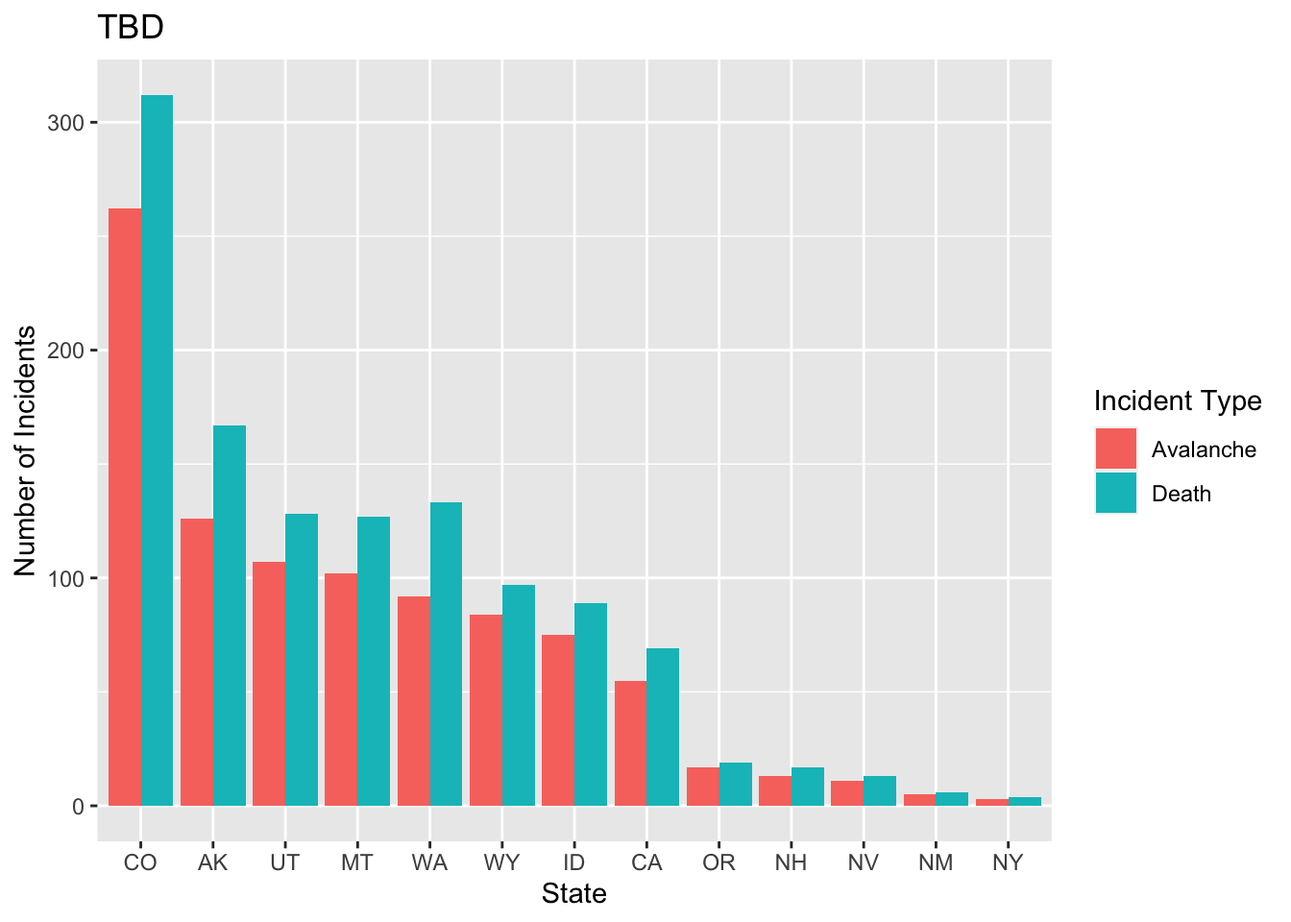
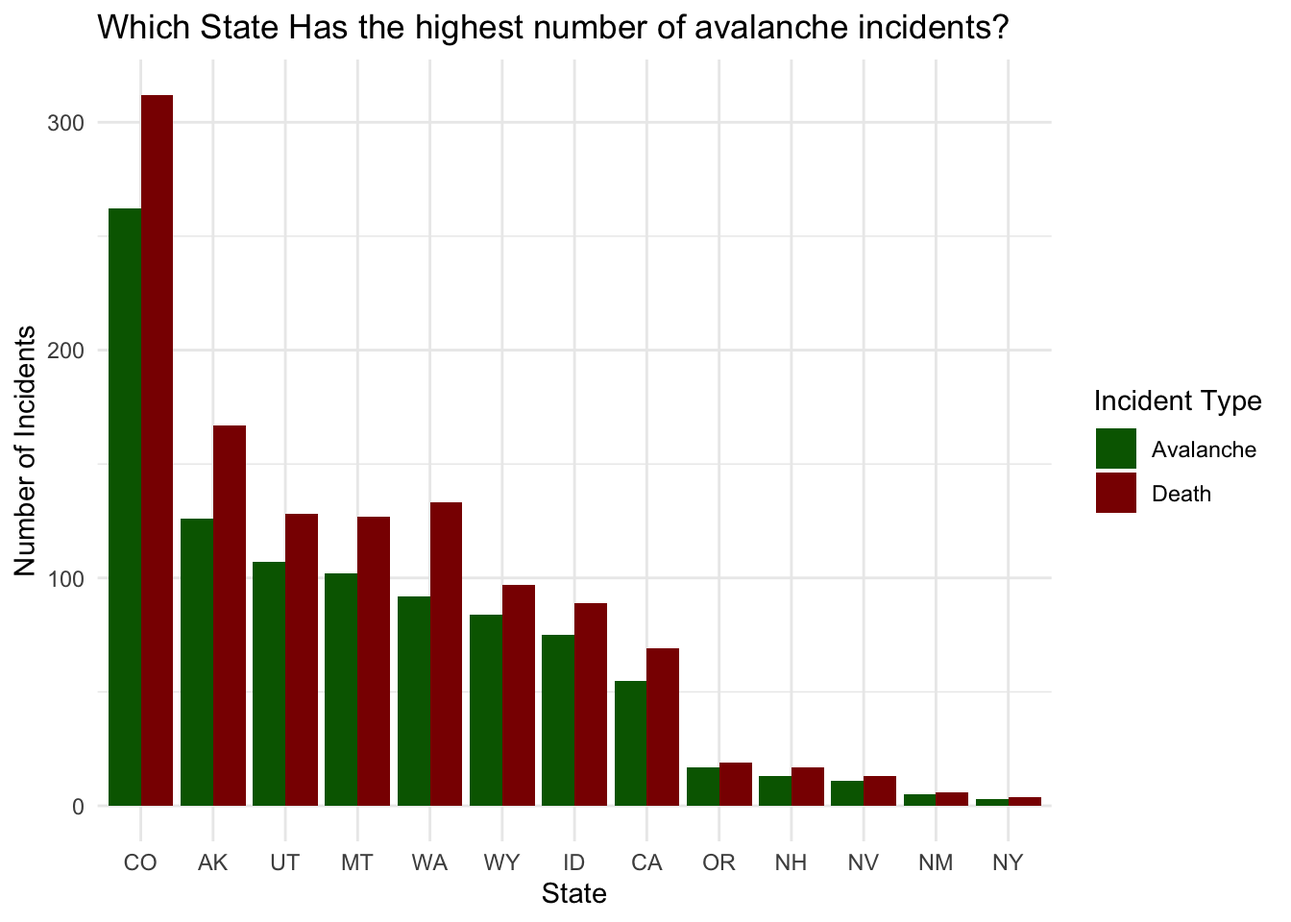
Finishing touches on avalanche data set

diff --git a/docs/posts/AvalanceAnalysis/index.html b/docs/posts/AvalanceAnalysis/index.html
@@ -165,14 +165,12 @@ code span.wa { color: #60a0b0; font-weight: bold; font-style: italic; } /* Warni
     <h2 id="toc-title">On this page</h2>
    
   <ul>
-  <li><a href="#avalanche-incidents-and-fatality-analysis" id="toc-avalanche-incidents-and-fatality-analysis" class="nav-link active" data-scroll-target="#avalanche-incidents-and-fatality-analysis">Avalanche Incidents and Fatality Analysis</a>
-  <ul class="collapse">
-  <li><a href="#background" id="toc-background" class="nav-link" data-scroll-target="#background">Background</a>
+  <li><a href="#background" id="toc-background" class="nav-link active" data-scroll-target="#background">Background</a></li>
+  <li><a href="#the-data" id="toc-the-data" class="nav-link" data-scroll-target="#the-data">The Data</a>
   <ul class="collapse">
   <li><a href="#have-avalanche-incidents-and-fatalities-increased-over-the-years" id="toc-have-avalanche-incidents-and-fatalities-increased-over-the-years" class="nav-link" data-scroll-target="#have-avalanche-incidents-and-fatalities-increased-over-the-years">Have Avalanche Incidents and Fatalities increased over the years?</a></li>
   <li><a href="#does-mode-of-transportation-impact-the-number-of-accidents" id="toc-does-mode-of-transportation-impact-the-number-of-accidents" class="nav-link" data-scroll-target="#does-mode-of-transportation-impact-the-number-of-accidents">Does mode of transportation impact the number of accidents?</a></li>
   <li><a href="#which-states-have-highest-consentration-of-avalanche-accidents" id="toc-which-states-have-highest-consentration-of-avalanche-accidents" class="nav-link" data-scroll-target="#which-states-have-highest-consentration-of-avalanche-accidents">Which States have highest consentration of Avalanche Accidents?</a></li>
-  </ul></li>
   </ul></li>
   </ul>
 </nav>
@@ -202,29 +200,49 @@ code span.wa { color: #60a0b0; font-weight: bold; font-style: italic; } /* Warni
 </header>
 
 <p>Analysis of Avalanche Incidents and Fatalities in the United States from 1950 to 2022.</p>
-<p>Data is available thanks to Colorado Avalanche Information Center (CAIC)</p>
+<p>Data is available thanks to Colorado Avalanche Information Center <a href="https://avalanche.state.co.us/accidents/statistics-and-reporting" target="_blank">(CAIC)</a></p>
 <p>image credit: Matea Nikolina via Unsplash</p>
-<section id="avalanche-incidents-and-fatality-analysis" class="level1">
-<h1>Avalanche Incidents and Fatality Analysis</h1>
 <section id="background" class="level2">
 <h2 class="anchored" data-anchor-id="background">Background</h2>
-<p>Data from CAIC 2022 1. Describe what is being shown 2. Describe variables being used 3. Describe interest in the analysis</p>
+<p>I have been skiing for a very long time. As a child my father would put on ski movies after a long day on the slopes, most of the movies we would watch would have at least one scene of a professional skier or snowboarder riding down a slope as an avalanche is triggered. Much like quicksand I thought avalanches would be a very big worry as a grew older, but when one skis at a sanctioned ski resort avalanche dangers are slim to none if you are careful.</p>
+<p>But I was still curious about them, I wanted to know when they actually occur and how they are triggered. I came across an expansive data set from the Colorado Avalanche Information Center and attempted to answer some of the questions I had.</p>
+</section>
+<section id="the-data" class="level2">
+<h2 class="anchored" data-anchor-id="the-data">The Data</h2>
+<p>The variables present in the data set include copious information about time, location, trigger type, travel mode of those stuck in the avalanche and fatalities.</p>
+<div class="cell">
+<div class="sourceCode cell-code" id="cb1"><pre class="sourceCode r code-with-copy"><code class="sourceCode r"><span id="cb1-1"><a href="#cb1-1" aria-hidden="true" tabindex="-1"></a><span class="fu">head</span>(accidents)</span></code><button title="Copy to Clipboard" class="code-copy-button"><i class="bi"></i></button></pre></div>
+<div class="cell-output cell-output-stdout">
+<pre><code># A tibble: 6 × 16
+  AvyYear  YYYY    MM    DD Location     Trigger dSize Setting State lat   lon  
+    &lt;dbl&gt; &lt;dbl&gt; &lt;dbl&gt; &lt;dbl&gt; &lt;chr&gt;        &lt;chr&gt;   &lt;dbl&gt; &lt;chr&gt;   &lt;chr&gt; &lt;chr&gt; &lt;chr&gt;
+1    2022  2022     5    29 Mount Meeke… N         3   BC      CO    40.2… -105…
+2    2022  2022     4    25 Ice Face, s… AS        2   BC      AK    61.1… -145…
+3    2022  2022     3    19 North Fork … AS        2   BC      CO    40.5… -106…
+4    2022  2022     3    17 Pilot Knob,… AR        2.5 BC      CO    37.8… -107…
+5    2022  2022     3    17 Game Creek … AS        2.5 BC      WY    43.5… -111…
+6    2022  2022     3    12 South Fork … AM        2   BC      WY    41.0… -106…
+# … with 5 more variables: PrimaryActivity &lt;chr&gt;, TravelMode &lt;chr&gt;,
+#   Killed &lt;dbl&gt;, Description &lt;chr&gt;, Date &lt;chr&gt;</code></pre>
+</div>
+</div>
+<p>I was most interested in the basic location, travel mode, fatalities and year.</p>
 <section id="have-avalanche-incidents-and-fatalities-increased-over-the-years" class="level3">
 <h3 class="anchored" data-anchor-id="have-avalanche-incidents-and-fatalities-increased-over-the-years">Have Avalanche Incidents and Fatalities increased over the years?</h3>
 <div class="cell">
 <details>
 <summary>Show the code</summary>
-<div class="sourceCode cell-code" id="cb1"><pre class="sourceCode r code-with-copy"><code class="sourceCode r"><span id="cb1-1"><a href="#cb1-1" aria-hidden="true" tabindex="-1"></a>a_year <span class="sc">%&gt;%</span></span>
-<span id="cb1-2"><a href="#cb1-2" aria-hidden="true" tabindex="-1"></a>  <span class="fu">ggplot</span>() <span class="sc">+</span> </span>
-<span id="cb1-3"><a href="#cb1-3" aria-hidden="true" tabindex="-1"></a>  <span class="fu">geom_line</span>(<span class="fu">aes</span>(<span class="at">x =</span> YYYY, <span class="at">y =</span> count, <span class="at">color =</span> type), <span class="at">linewidth =</span> <span class="dv">1</span>) <span class="sc">+</span></span>
-<span id="cb1-4"><a href="#cb1-4" aria-hidden="true" tabindex="-1"></a>  <span class="fu">labs</span>(<span class="at">title =</span> <span class="st">"Have Avalanche Incidents and Deaths Increased Over Time?"</span>, </span>
-<span id="cb1-5"><a href="#cb1-5" aria-hidden="true" tabindex="-1"></a>       <span class="at">x =</span> <span class="st">"Year"</span>,</span>
-<span id="cb1-6"><a href="#cb1-6" aria-hidden="true" tabindex="-1"></a>       <span class="at">y =</span> <span class="st">"Total Events"</span>) <span class="sc">+</span></span>
-<span id="cb1-7"><a href="#cb1-7" aria-hidden="true" tabindex="-1"></a>  <span class="fu">scale_color_manual</span>(<span class="at">values =</span> <span class="fu">c</span>(<span class="st">"#E69F00"</span>, <span class="st">"#0072B2"</span>), <span class="at">name =</span> <span class="st">"Incident Type"</span>, <span class="at">labels =</span> <span class="fu">c</span>(<span class="st">"Death"</span>,<span class="st">"Avalanche"</span>))<span class="sc">+</span></span>
-<span id="cb1-8"><a href="#cb1-8" aria-hidden="true" tabindex="-1"></a>  <span class="fu">theme_minimal</span>()</span></code><button title="Copy to Clipboard" class="code-copy-button"><i class="bi"></i></button></pre></div>
+<div class="sourceCode cell-code" id="cb3"><pre class="sourceCode r code-with-copy"><code class="sourceCode r"><span id="cb3-1"><a href="#cb3-1" aria-hidden="true" tabindex="-1"></a>a_year <span class="sc">%&gt;%</span></span>
+<span id="cb3-2"><a href="#cb3-2" aria-hidden="true" tabindex="-1"></a>  <span class="fu">ggplot</span>() <span class="sc">+</span> </span>
+<span id="cb3-3"><a href="#cb3-3" aria-hidden="true" tabindex="-1"></a>  <span class="fu">geom_line</span>(<span class="fu">aes</span>(<span class="at">x =</span> YYYY, <span class="at">y =</span> count, <span class="at">color =</span> type), <span class="at">linewidth =</span> <span class="dv">1</span>) <span class="sc">+</span></span>
+<span id="cb3-4"><a href="#cb3-4" aria-hidden="true" tabindex="-1"></a>  <span class="fu">labs</span>(<span class="at">title =</span> <span class="st">"Have Avalanche Incidents and Deaths Increased Over Time?"</span>, </span>
+<span id="cb3-5"><a href="#cb3-5" aria-hidden="true" tabindex="-1"></a>       <span class="at">x =</span> <span class="st">"Year"</span>,</span>
+<span id="cb3-6"><a href="#cb3-6" aria-hidden="true" tabindex="-1"></a>       <span class="at">y =</span> <span class="st">"Total Events"</span>) <span class="sc">+</span></span>
+<span id="cb3-7"><a href="#cb3-7" aria-hidden="true" tabindex="-1"></a>  <span class="fu">scale_color_manual</span>(<span class="at">values =</span> <span class="fu">c</span>(<span class="st">"#E69F00"</span>, <span class="st">"#0072B2"</span>), <span class="at">name =</span> <span class="st">"Incident Type"</span>, <span class="at">labels =</span> <span class="fu">c</span>(<span class="st">"Death"</span>,<span class="st">"Avalanche"</span>))<span class="sc">+</span></span>
+<span id="cb3-8"><a href="#cb3-8" aria-hidden="true" tabindex="-1"></a>  <span class="fu">theme_minimal</span>()</span></code><button title="Copy to Clipboard" class="code-copy-button"><i class="bi"></i></button></pre></div>
 </details>
 <div class="cell-output-display">
-<p><img src="index_files/figure-html/unnamed-chunk-3-1.png" class="img-fluid" width="672"></p>
+<p><img src="index_files/figure-html/unnamed-chunk-4-1.png" class="img-fluid" width="672"></p>
 </div>
 </div>
 </section>
@@ -233,36 +251,36 @@ code span.wa { color: #60a0b0; font-weight: bold; font-style: italic; } /* Warni
 <div class="cell">
 <details>
 <summary>Show the code</summary>
-<div class="sourceCode cell-code" id="cb2"><pre class="sourceCode r code-with-copy"><code class="sourceCode r"><span id="cb2-1"><a href="#cb2-1" aria-hidden="true" tabindex="-1"></a>accidents <span class="sc">%&gt;%</span></span>
-<span id="cb2-2"><a href="#cb2-2" aria-hidden="true" tabindex="-1"></a>  <span class="fu">filter</span>(TravelMode <span class="sc">%in%</span> <span class="fu">c</span>(<span class="st">"Foot"</span>, <span class="st">"Ski"</span>, <span class="st">"Snowboard"</span>, <span class="st">"Snowshoe"</span>)) <span class="sc">%&gt;%</span></span>
-<span id="cb2-3"><a href="#cb2-3" aria-hidden="true" tabindex="-1"></a>  <span class="fu">group_by</span>(TravelMode) <span class="sc">%&gt;%</span></span>
-<span id="cb2-4"><a href="#cb2-4" aria-hidden="true" tabindex="-1"></a>  <span class="fu">summarize</span>(<span class="at">total_accidents =</span> <span class="fu">n</span>(), <span class="at">total_deaths =</span> <span class="fu">sum</span>(Killed)) <span class="sc">%&gt;%</span></span>
-<span id="cb2-5"><a href="#cb2-5" aria-hidden="true" tabindex="-1"></a>  <span class="fu">ggplot</span>(<span class="fu">aes</span>(<span class="at">x =</span> <span class="fu">fct_reorder</span>(TravelMode, <span class="fu">desc</span>(total_accidents)), <span class="at">y =</span> total_accidents)) <span class="sc">+</span></span>
-<span id="cb2-6"><a href="#cb2-6" aria-hidden="true" tabindex="-1"></a>  <span class="fu">geom_col</span>() <span class="sc">+</span></span>
-<span id="cb2-7"><a href="#cb2-7" aria-hidden="true" tabindex="-1"></a>  <span class="fu">labs</span>(</span>
-<span id="cb2-8"><a href="#cb2-8" aria-hidden="true" tabindex="-1"></a>    <span class="at">title=</span> <span class="st">"Which Mode of Transportation has the Highest Number of Incidents?"</span>,</span>
-<span id="cb2-9"><a href="#cb2-9" aria-hidden="true" tabindex="-1"></a>    <span class="at">x =</span> <span class="st">"Travel Type"</span>,</span>
-<span id="cb2-10"><a href="#cb2-10" aria-hidden="true" tabindex="-1"></a>    <span class="at">y =</span> <span class="st">"Number of Avalanches"</span></span>
-<span id="cb2-11"><a href="#cb2-11" aria-hidden="true" tabindex="-1"></a>  )<span class="sc">+</span></span>
-<span id="cb2-12"><a href="#cb2-12" aria-hidden="true" tabindex="-1"></a>  <span class="fu">theme_minimal</span>()</span></code><button title="Copy to Clipboard" class="code-copy-button"><i class="bi"></i></button></pre></div>
+<div class="sourceCode cell-code" id="cb4"><pre class="sourceCode r code-with-copy"><code class="sourceCode r"><span id="cb4-1"><a href="#cb4-1" aria-hidden="true" tabindex="-1"></a>accidents <span class="sc">%&gt;%</span></span>
+<span id="cb4-2"><a href="#cb4-2" aria-hidden="true" tabindex="-1"></a>  <span class="fu">filter</span>(TravelMode <span class="sc">%in%</span> <span class="fu">c</span>(<span class="st">"Foot"</span>, <span class="st">"Ski"</span>, <span class="st">"Snowboard"</span>, <span class="st">"Snowshoe"</span>)) <span class="sc">%&gt;%</span></span>
+<span id="cb4-3"><a href="#cb4-3" aria-hidden="true" tabindex="-1"></a>  <span class="fu">group_by</span>(TravelMode) <span class="sc">%&gt;%</span></span>
+<span id="cb4-4"><a href="#cb4-4" aria-hidden="true" tabindex="-1"></a>  <span class="fu">summarize</span>(<span class="at">total_accidents =</span> <span class="fu">n</span>(), <span class="at">total_deaths =</span> <span class="fu">sum</span>(Killed)) <span class="sc">%&gt;%</span></span>
+<span id="cb4-5"><a href="#cb4-5" aria-hidden="true" tabindex="-1"></a>  <span class="fu">ggplot</span>(<span class="fu">aes</span>(<span class="at">x =</span> <span class="fu">fct_reorder</span>(TravelMode, <span class="fu">desc</span>(total_accidents)), <span class="at">y =</span> total_accidents)) <span class="sc">+</span></span>
+<span id="cb4-6"><a href="#cb4-6" aria-hidden="true" tabindex="-1"></a>  <span class="fu">geom_col</span>() <span class="sc">+</span></span>
+<span id="cb4-7"><a href="#cb4-7" aria-hidden="true" tabindex="-1"></a>  <span class="fu">labs</span>(</span>
+<span id="cb4-8"><a href="#cb4-8" aria-hidden="true" tabindex="-1"></a>    <span class="at">title=</span> <span class="st">"Which Mode of Transportation has the Highest Number of Incidents?"</span>,</span>
+<span id="cb4-9"><a href="#cb4-9" aria-hidden="true" tabindex="-1"></a>    <span class="at">x =</span> <span class="st">"Travel Type"</span>,</span>
+<span id="cb4-10"><a href="#cb4-10" aria-hidden="true" tabindex="-1"></a>    <span class="at">y =</span> <span class="st">"Number of Avalanches"</span></span>
+<span id="cb4-11"><a href="#cb4-11" aria-hidden="true" tabindex="-1"></a>  )<span class="sc">+</span></span>
+<span id="cb4-12"><a href="#cb4-12" aria-hidden="true" tabindex="-1"></a>  <span class="fu">theme_minimal</span>()</span></code><button title="Copy to Clipboard" class="code-copy-button"><i class="bi"></i></button></pre></div>
 </details>
 <div class="cell-output-display">
-<p><img src="index_files/figure-html/unnamed-chunk-4-1.png" class="img-fluid" width="672"></p>
+<p><img src="index_files/figure-html/unnamed-chunk-5-1.png" class="img-fluid" width="672"></p>
 </div>
 </div>
 <div class="cell">
 <details>
 <summary>Show the code</summary>
-<div class="sourceCode cell-code" id="cb3"><pre class="sourceCode r code-with-copy"><code class="sourceCode r"><span id="cb3-1"><a href="#cb3-1" aria-hidden="true" tabindex="-1"></a>travel_type <span class="sc">%&gt;%</span></span>
-<span id="cb3-2"><a href="#cb3-2" aria-hidden="true" tabindex="-1"></a>  <span class="fu">ggplot</span>() <span class="sc">+</span></span>
-<span id="cb3-3"><a href="#cb3-3" aria-hidden="true" tabindex="-1"></a>  <span class="fu">geom_col</span>(<span class="fu">aes</span>(<span class="at">x =</span> <span class="fu">fct_reorder</span>(TravelMode, <span class="fu">desc</span>(count)), <span class="at">y =</span> count, <span class="at">fill =</span> type), <span class="at">position =</span> <span class="st">"dodge"</span>) <span class="sc">+</span></span>
-<span id="cb3-4"><a href="#cb3-4" aria-hidden="true" tabindex="-1"></a>  <span class="fu">labs</span>(<span class="at">title =</span> <span class="st">"What is the distribution of accidents and deaths for the top modes of transportation?"</span>, </span>
-<span id="cb3-5"><a href="#cb3-5" aria-hidden="true" tabindex="-1"></a>       <span class="at">x =</span> <span class="st">"Travel Mode"</span>, </span>
-<span id="cb3-6"><a href="#cb3-6" aria-hidden="true" tabindex="-1"></a>       <span class="at">y =</span> <span class="st">"Number of Incidents"</span>) <span class="sc">+</span></span>
-<span id="cb3-7"><a href="#cb3-7" aria-hidden="true" tabindex="-1"></a>  <span class="fu">scale_fill_manual</span>(<span class="at">values =</span> <span class="fu">c</span>(<span class="st">"darkgreen"</span>, <span class="st">"darkred"</span>), <span class="at">name =</span> <span class="st">"Incident Type"</span>, <span class="at">labels =</span> <span class="fu">c</span>(<span class="st">"Avalanche"</span>, <span class="st">"Death"</span>))</span></code><button title="Copy to Clipboard" class="code-copy-button"><i class="bi"></i></button></pre></div>
+<div class="sourceCode cell-code" id="cb5"><pre class="sourceCode r code-with-copy"><code class="sourceCode r"><span id="cb5-1"><a href="#cb5-1" aria-hidden="true" tabindex="-1"></a>travel_type <span class="sc">%&gt;%</span></span>
+<span id="cb5-2"><a href="#cb5-2" aria-hidden="true" tabindex="-1"></a>  <span class="fu">ggplot</span>() <span class="sc">+</span></span>
+<span id="cb5-3"><a href="#cb5-3" aria-hidden="true" tabindex="-1"></a>  <span class="fu">geom_col</span>(<span class="fu">aes</span>(<span class="at">x =</span> <span class="fu">fct_reorder</span>(TravelMode, <span class="fu">desc</span>(count)), <span class="at">y =</span> count, <span class="at">fill =</span> type), <span class="at">position =</span> <span class="st">"dodge"</span>) <span class="sc">+</span></span>
+<span id="cb5-4"><a href="#cb5-4" aria-hidden="true" tabindex="-1"></a>  <span class="fu">labs</span>(<span class="at">title =</span> <span class="st">"What is the distribution of accidents and deaths for the top modes of transportation?"</span>, </span>
+<span id="cb5-5"><a href="#cb5-5" aria-hidden="true" tabindex="-1"></a>       <span class="at">x =</span> <span class="st">"Travel Mode"</span>, </span>
+<span id="cb5-6"><a href="#cb5-6" aria-hidden="true" tabindex="-1"></a>       <span class="at">y =</span> <span class="st">"Number of Incidents"</span>) <span class="sc">+</span></span>
+<span id="cb5-7"><a href="#cb5-7" aria-hidden="true" tabindex="-1"></a>  <span class="fu">scale_fill_manual</span>(<span class="at">values =</span> <span class="fu">c</span>(<span class="st">"darkgreen"</span>, <span class="st">"darkred"</span>), <span class="at">name =</span> <span class="st">"Incident Type"</span>, <span class="at">labels =</span> <span class="fu">c</span>(<span class="st">"Avalanche"</span>, <span class="st">"Death"</span>))</span></code><button title="Copy to Clipboard" class="code-copy-button"><i class="bi"></i></button></pre></div>
 </details>
 <div class="cell-output-display">
-<p><img src="index_files/figure-html/unnamed-chunk-6-1.png" class="img-fluid" width="672"></p>
+<p><img src="index_files/figure-html/unnamed-chunk-7-1.png" class="img-fluid" width="672"></p>
 </div>
 </div>
 </section>
@@ -271,40 +289,39 @@ code span.wa { color: #60a0b0; font-weight: bold; font-style: italic; } /* Warni
 <div class="cell">
 <details>
 <summary>Show the code</summary>
-<div class="sourceCode cell-code" id="cb4"><pre class="sourceCode r code-with-copy"><code class="sourceCode r"><span id="cb4-1"><a href="#cb4-1" aria-hidden="true" tabindex="-1"></a>accidents <span class="sc">%&gt;%</span></span>
-<span id="cb4-2"><a href="#cb4-2" aria-hidden="true" tabindex="-1"></a>  <span class="fu">group_by</span>(State) <span class="sc">%&gt;%</span></span>
-<span id="cb4-3"><a href="#cb4-3" aria-hidden="true" tabindex="-1"></a>  <span class="fu">summarize</span>(<span class="at">total_accidents =</span> <span class="fu">n</span>()) <span class="sc">%&gt;%</span></span>
-<span id="cb4-4"><a href="#cb4-4" aria-hidden="true" tabindex="-1"></a>  <span class="fu">filter</span>(total_accidents <span class="sc">&gt;</span> <span class="dv">1</span>) <span class="sc">%&gt;%</span></span>
-<span id="cb4-5"><a href="#cb4-5" aria-hidden="true" tabindex="-1"></a>  <span class="fu">ggplot</span>() <span class="sc">+</span></span>
-<span id="cb4-6"><a href="#cb4-6" aria-hidden="true" tabindex="-1"></a>  <span class="fu">geom_col</span>(<span class="fu">aes</span>(<span class="at">y =</span> total_accidents, <span class="at">x =</span> <span class="fu">fct_reorder</span>(State, <span class="fu">desc</span>(total_accidents)))) <span class="sc">+</span></span>
-<span id="cb4-7"><a href="#cb4-7" aria-hidden="true" tabindex="-1"></a>  <span class="fu">labs</span>(<span class="at">title =</span> <span class="st">"Which State has the Highest Number of Avalanches?"</span>,</span>
-<span id="cb4-8"><a href="#cb4-8" aria-hidden="true" tabindex="-1"></a>       <span class="at">x =</span> <span class="st">"State"</span>,</span>
-<span id="cb4-9"><a href="#cb4-9" aria-hidden="true" tabindex="-1"></a>       <span class="at">y =</span> <span class="st">"Total Accidents"</span>) <span class="sc">+</span></span>
-<span id="cb4-10"><a href="#cb4-10" aria-hidden="true" tabindex="-1"></a>  <span class="fu">theme_minimal</span>()</span></code><button title="Copy to Clipboard" class="code-copy-button"><i class="bi"></i></button></pre></div>
+<div class="sourceCode cell-code" id="cb6"><pre class="sourceCode r code-with-copy"><code class="sourceCode r"><span id="cb6-1"><a href="#cb6-1" aria-hidden="true" tabindex="-1"></a>accidents <span class="sc">%&gt;%</span></span>
+<span id="cb6-2"><a href="#cb6-2" aria-hidden="true" tabindex="-1"></a>  <span class="fu">group_by</span>(State) <span class="sc">%&gt;%</span></span>
+<span id="cb6-3"><a href="#cb6-3" aria-hidden="true" tabindex="-1"></a>  <span class="fu">summarize</span>(<span class="at">total_accidents =</span> <span class="fu">n</span>()) <span class="sc">%&gt;%</span></span>
+<span id="cb6-4"><a href="#cb6-4" aria-hidden="true" tabindex="-1"></a>  <span class="fu">filter</span>(total_accidents <span class="sc">&gt;</span> <span class="dv">1</span>) <span class="sc">%&gt;%</span></span>
+<span id="cb6-5"><a href="#cb6-5" aria-hidden="true" tabindex="-1"></a>  <span class="fu">ggplot</span>() <span class="sc">+</span></span>
+<span id="cb6-6"><a href="#cb6-6" aria-hidden="true" tabindex="-1"></a>  <span class="fu">geom_col</span>(<span class="fu">aes</span>(<span class="at">y =</span> total_accidents, <span class="at">x =</span> <span class="fu">fct_reorder</span>(State, <span class="fu">desc</span>(total_accidents)))) <span class="sc">+</span></span>
+<span id="cb6-7"><a href="#cb6-7" aria-hidden="true" tabindex="-1"></a>  <span class="fu">labs</span>(<span class="at">title =</span> <span class="st">"Which State has the Highest Number of Avalanches?"</span>,</span>
+<span id="cb6-8"><a href="#cb6-8" aria-hidden="true" tabindex="-1"></a>       <span class="at">x =</span> <span class="st">"State"</span>,</span>
+<span id="cb6-9"><a href="#cb6-9" aria-hidden="true" tabindex="-1"></a>       <span class="at">y =</span> <span class="st">"Total Accidents"</span>) <span class="sc">+</span></span>
+<span id="cb6-10"><a href="#cb6-10" aria-hidden="true" tabindex="-1"></a>  <span class="fu">theme_minimal</span>()</span></code><button title="Copy to Clipboard" class="code-copy-button"><i class="bi"></i></button></pre></div>
 </details>
 <div class="cell-output-display">
-<p><img src="index_files/figure-html/unnamed-chunk-7-1.png" class="img-fluid" width="672"></p>
+<p><img src="index_files/figure-html/unnamed-chunk-8-1.png" class="img-fluid" width="672"></p>
 </div>
 </div>
 <div class="cell">
 <details>
 <summary>Show the code</summary>
-<div class="sourceCode cell-code" id="cb5"><pre class="sourceCode r code-with-copy"><code class="sourceCode r"><span id="cb5-1"><a href="#cb5-1" aria-hidden="true" tabindex="-1"></a>accidents_state <span class="sc">%&gt;%</span></span>
-<span id="cb5-2"><a href="#cb5-2" aria-hidden="true" tabindex="-1"></a>  <span class="fu">ggplot</span>() <span class="sc">+</span></span>
-<span id="cb5-3"><a href="#cb5-3" aria-hidden="true" tabindex="-1"></a>  <span class="fu">geom_col</span>(<span class="fu">aes</span>(<span class="at">x =</span> <span class="fu">fct_reorder</span>(State, <span class="fu">desc</span>(count)), <span class="at">y =</span> count, <span class="at">fill =</span> type), <span class="at">position =</span> <span class="st">"dodge"</span>) <span class="sc">+</span></span>
-<span id="cb5-4"><a href="#cb5-4" aria-hidden="true" tabindex="-1"></a>  <span class="fu">labs</span>(<span class="at">title =</span> <span class="st">"Which State Has the highest number of avalanche incidents?"</span>, </span>
-<span id="cb5-5"><a href="#cb5-5" aria-hidden="true" tabindex="-1"></a>       <span class="at">x =</span> <span class="st">"State"</span>, </span>
-<span id="cb5-6"><a href="#cb5-6" aria-hidden="true" tabindex="-1"></a>       <span class="at">y =</span> <span class="st">"Number of Incidents"</span>) <span class="sc">+</span></span>
-<span id="cb5-7"><a href="#cb5-7" aria-hidden="true" tabindex="-1"></a>  <span class="fu">scale_fill_manual</span>(<span class="at">values =</span> <span class="fu">c</span>(<span class="st">"darkgreen"</span>, <span class="st">"darkred"</span>), <span class="at">name =</span> <span class="st">"Incident Type"</span>, <span class="at">labels =</span> <span class="fu">c</span>(<span class="st">"Avalanche"</span>, <span class="st">"Death"</span>)) <span class="sc">+</span></span>
-<span id="cb5-8"><a href="#cb5-8" aria-hidden="true" tabindex="-1"></a>  <span class="fu">theme_minimal</span>()</span></code><button title="Copy to Clipboard" class="code-copy-button"><i class="bi"></i></button></pre></div>
+<div class="sourceCode cell-code" id="cb7"><pre class="sourceCode r code-with-copy"><code class="sourceCode r"><span id="cb7-1"><a href="#cb7-1" aria-hidden="true" tabindex="-1"></a>accidents_state <span class="sc">%&gt;%</span></span>
+<span id="cb7-2"><a href="#cb7-2" aria-hidden="true" tabindex="-1"></a>  <span class="fu">ggplot</span>() <span class="sc">+</span></span>
+<span id="cb7-3"><a href="#cb7-3" aria-hidden="true" tabindex="-1"></a>  <span class="fu">geom_col</span>(<span class="fu">aes</span>(<span class="at">x =</span> <span class="fu">fct_reorder</span>(State, <span class="fu">desc</span>(count)), <span class="at">y =</span> count, <span class="at">fill =</span> type), <span class="at">position =</span> <span class="st">"dodge"</span>) <span class="sc">+</span></span>
+<span id="cb7-4"><a href="#cb7-4" aria-hidden="true" tabindex="-1"></a>  <span class="fu">labs</span>(<span class="at">title =</span> <span class="st">"Which State Has the highest number of avalanche incidents?"</span>, </span>
+<span id="cb7-5"><a href="#cb7-5" aria-hidden="true" tabindex="-1"></a>       <span class="at">x =</span> <span class="st">"State"</span>, </span>
+<span id="cb7-6"><a href="#cb7-6" aria-hidden="true" tabindex="-1"></a>       <span class="at">y =</span> <span class="st">"Number of Incidents"</span>) <span class="sc">+</span></span>
+<span id="cb7-7"><a href="#cb7-7" aria-hidden="true" tabindex="-1"></a>  <span class="fu">scale_fill_manual</span>(<span class="at">values =</span> <span class="fu">c</span>(<span class="st">"darkgreen"</span>, <span class="st">"darkred"</span>), <span class="at">name =</span> <span class="st">"Incident Type"</span>, <span class="at">labels =</span> <span class="fu">c</span>(<span class="st">"Avalanche"</span>, <span class="st">"Death"</span>)) <span class="sc">+</span></span>
+<span id="cb7-8"><a href="#cb7-8" aria-hidden="true" tabindex="-1"></a>  <span class="fu">theme_minimal</span>()</span></code><button title="Copy to Clipboard" class="code-copy-button"><i class="bi"></i></button></pre></div>
 </details>
 <div class="cell-output-display">
-<p><img src="index_files/figure-html/unnamed-chunk-9-1.png" class="img-fluid" width="672"></p>
+<p><img src="index_files/figure-html/unnamed-chunk-10-1.png" class="img-fluid" width="672"></p>
 </div>
 </div>
 
 
-</section>
 </section>
 </section>
 

diff --git a/docs/index.html b/docs/index.html
@@ -191,7 +191,7 @@ Tidy Tuesday (2022) Week 44 Analysis: Ravelry Yarns
 </div>
 </a>
 </div>
-<div class="g-col-1" data-index="1" data-categories="analysis,skiing" data-listing-file-modified-sort="1675718844926" data-listing-reading-time-sort="2.91">
+<div class="g-col-1" data-index="1" data-categories="analysis,skiing" data-listing-file-modified-sort="1675719992303" data-listing-reading-time-sort="3.68">
 <a href="./posts/AvalanceAnalysis/index.html" class="quarto-grid-link">
 <div class="quarto-grid-item card h-100 card-left">
 <p class="card-img-top">
